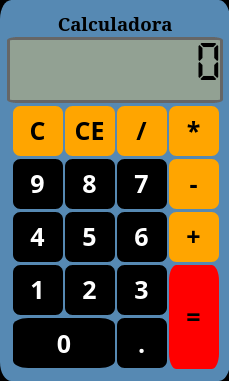
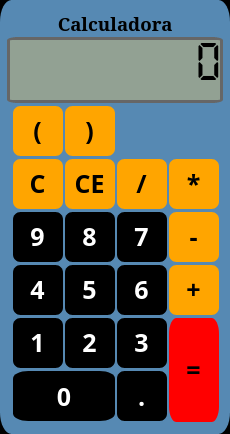
Falta terminar os eventos de teclado

diff --git a/script.js b/script.js
@@ -1,28 +1,38 @@
 var numero;
 
-/*renomerar uma variavel numero para cada funcao*/
-function inserir(numeroInsertInput) {
-    if(document.getElementById('resultado').innerHTML == "0"){
+//----------------FUNÇOES DE FATORAÇÃO----------------------
+function pegarElemento(elemento){
+    return document.getElementById(elemento).innerHTML;
+}
+function setarElemento(numero1){
+    document.getElementById('resultado').innerHTML = numero1;
+}
+
+//--------------FUNÇÕES ESSENCIAIS--------------------------
+function inserir(numeroInput) {
+
+    if(pegarElemento('resultado') == "0"){
         limpar();
-        numero = document.getElementById("resultado").innerHTML;
-        document.getElementById('resultado').innerHTML = numero + numeroInsertInput;
+        numero = pegarElemento('resultado') ;
+        setarElemento(numero + numeroInput);
+
     } else {
-        numero = document.getElementById("resultado").innerHTML;
-        document.getElementById('resultado').innerHTML = numero + numeroInsertInput;
+        numero = pegarElemento('resultado') ;
+        setarElemento(numero + numeroInput);
     }
 }
 function voltar() {
-    numero = document.getElementById("resultado").innerHTML;
-    document.getElementById('resultado').innerHTML = numero.substring(0, numero.length - 1);
+    numero = pegarElemento('resultado');
+    setarElemento(numero.substring(0, numero.length - 1));
 }
 function limpar() {
-    document.getElementById('resultado').innerHTML = '';
+    setarElemento("");
 }
 function calcular() {
-    numero = document.getElementById('resultado').innerHTML;
+    numero = pegarElemento('resultado');
 
     if (numero) {
-        document.getElementById('resultado').innerHTML = eval(numero);
+        setarElemento(eval(numero));
     }
 }
 /*
@@ -31,3 +41,87 @@ function raizQuadrada(numeroInsertInput) {
         document.getElementById("resultado").innerHTML = Math.sqrt(numeroInsertInput);
     }
 }*/
+
+document.addEventListener("keydown", keyPush);
+//-----------------FUNÇÕES DE EVENTO DE TECLAS----------------
+
+function keyPush(event){
+    switch(event.keyCode){
+
+        case(48):
+        case(96):
+            inserir('0');
+            break;
+        case(49):
+        case(97):
+            inserir('1');
+            break;
+        case(50):
+        case(98):
+            inserir('2');
+            break;
+        case(51):
+        case(99):
+            inserir('3');
+            break;
+        case(52):
+        case(100):
+            inserir('4');
+            break;
+        case(53):
+        case(101):
+            inserir('5');
+            break;
+        case(54):
+        case(102):
+            inserir('6');
+            break;
+        case(55):
+        case(103):
+            inserir('7');
+            break;
+        case(56):
+        case(104):
+            inserir('8');
+            break;
+        case(57):
+        case(105):
+            inserir('9');
+            break;
+
+        case(106):
+            inserir('*');
+            break;
+        case(107):
+        case(187):
+            inserir('+');
+            break;
+        case(109):
+        case(189):
+            inserir('-');
+            break;        
+        case(111):
+        case(191):
+            inserir('/');
+            break;
+
+        case(110):
+        case(188):
+        case(190):
+            inserir(',');
+            break;
+
+        case(46):
+            limpar();
+        case(8):
+            voltar();//MELHOR FAZER COM INPUT NO HTML PQ PODE CLICAR ONDE SE QUER ALTERAR
+            break;
+        case(13):
+        case(187):
+            calcular();
+            break;        
+        default:
+            break;
+
+    }
+}

diff --git a/index.html b/index.html
@@ -16,6 +16,10 @@
             <h3 align="center" style="color:rgb(0, 0, 0)">Calculadora</h3>
             <p id="resultado">0</p>
             <table class = "tabela" >
+                <tr classe="linha">
+                    <td><button class="abrirParentesis" onclick="inserir('(')">(</button></td>
+                    <td><button class="fecharParentesis" onclick="inserir(')')">)</button></td>
+                </tr>                    
                 <tr class="linha">
                     <td><button class = "botaoOperador" onclick="limpar()">C</button></td> 
                     <td><button class = "botaoOperador" onclick="voltar()">CE</button></td>                    

diff --git a/style.css b/style.css
@@ -37,7 +37,7 @@
     background-color: lime;
     color: black;
 }
-.botaoOperador{
+.botaoOperador, .abrirParentesis, .fecharParentesis{
     width: 50px;
     height: 50px;
     font-size: 25px;

diff --git a/Readme.md b/Readme.md
@@ -7,6 +7,8 @@
 </h4>
 
 ### Recursos
+
+- [x] Parêntesis;
 - [x] Adição;
 - [x] Subtração;
 - [x] Multiplicação;
@@ -14,6 +16,7 @@
 - [ ] Radiciação;
 - [ ] Potenciação;
 - [ ] Regra de 3.
+- [ ] Input por teclado;
 
 ### Link
 
